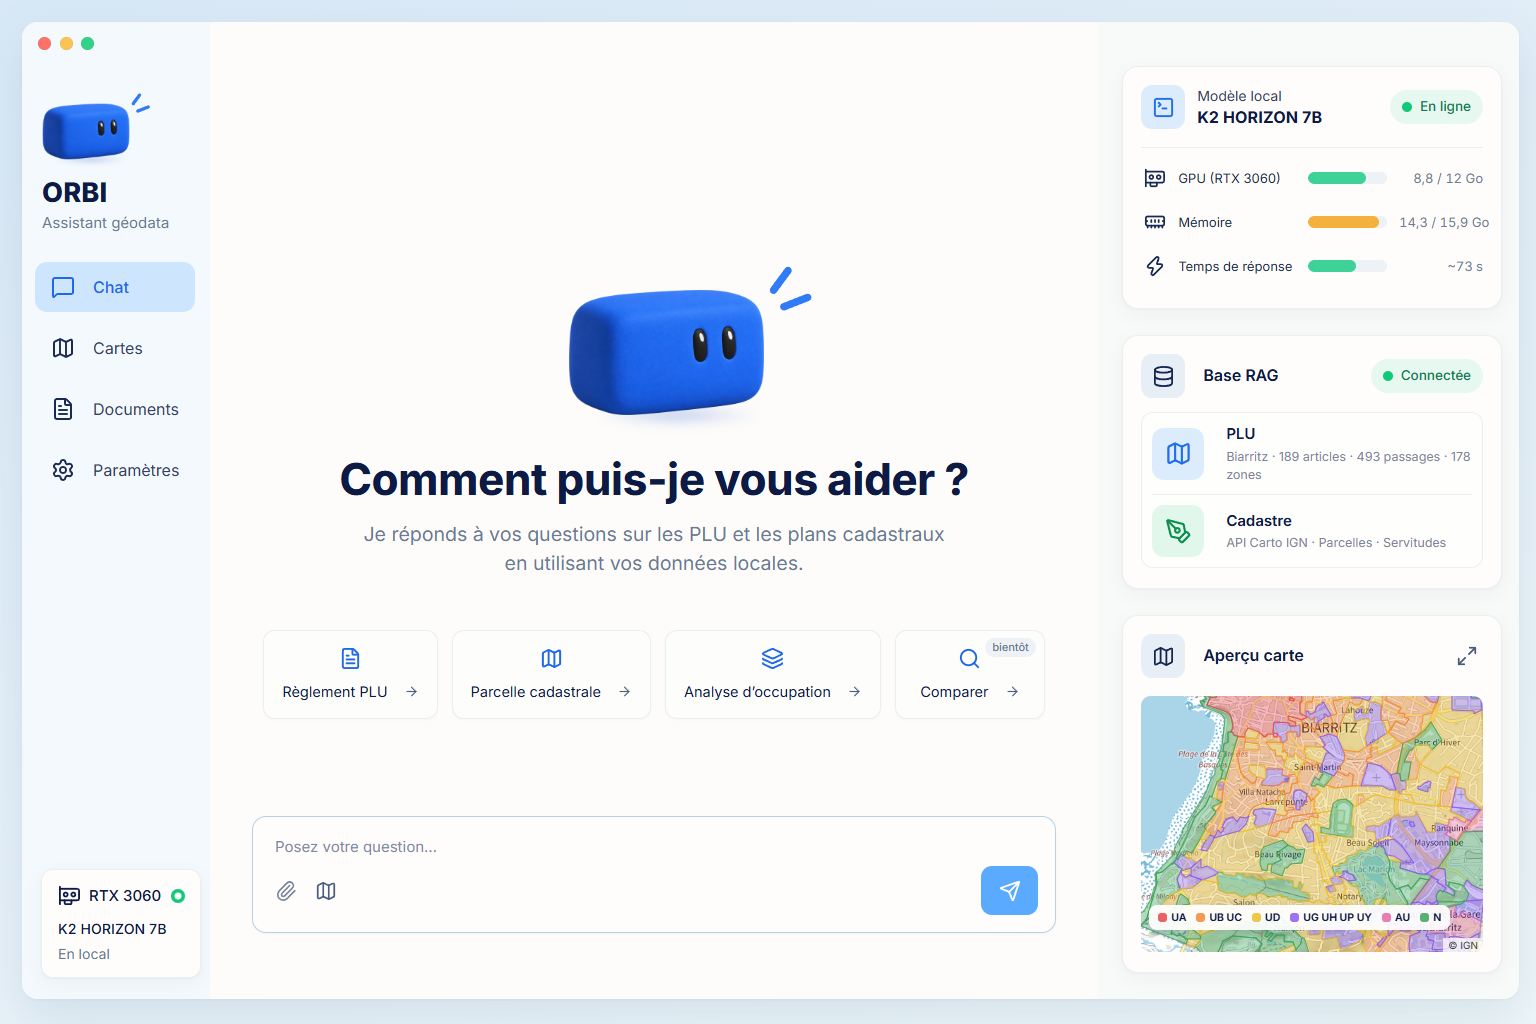
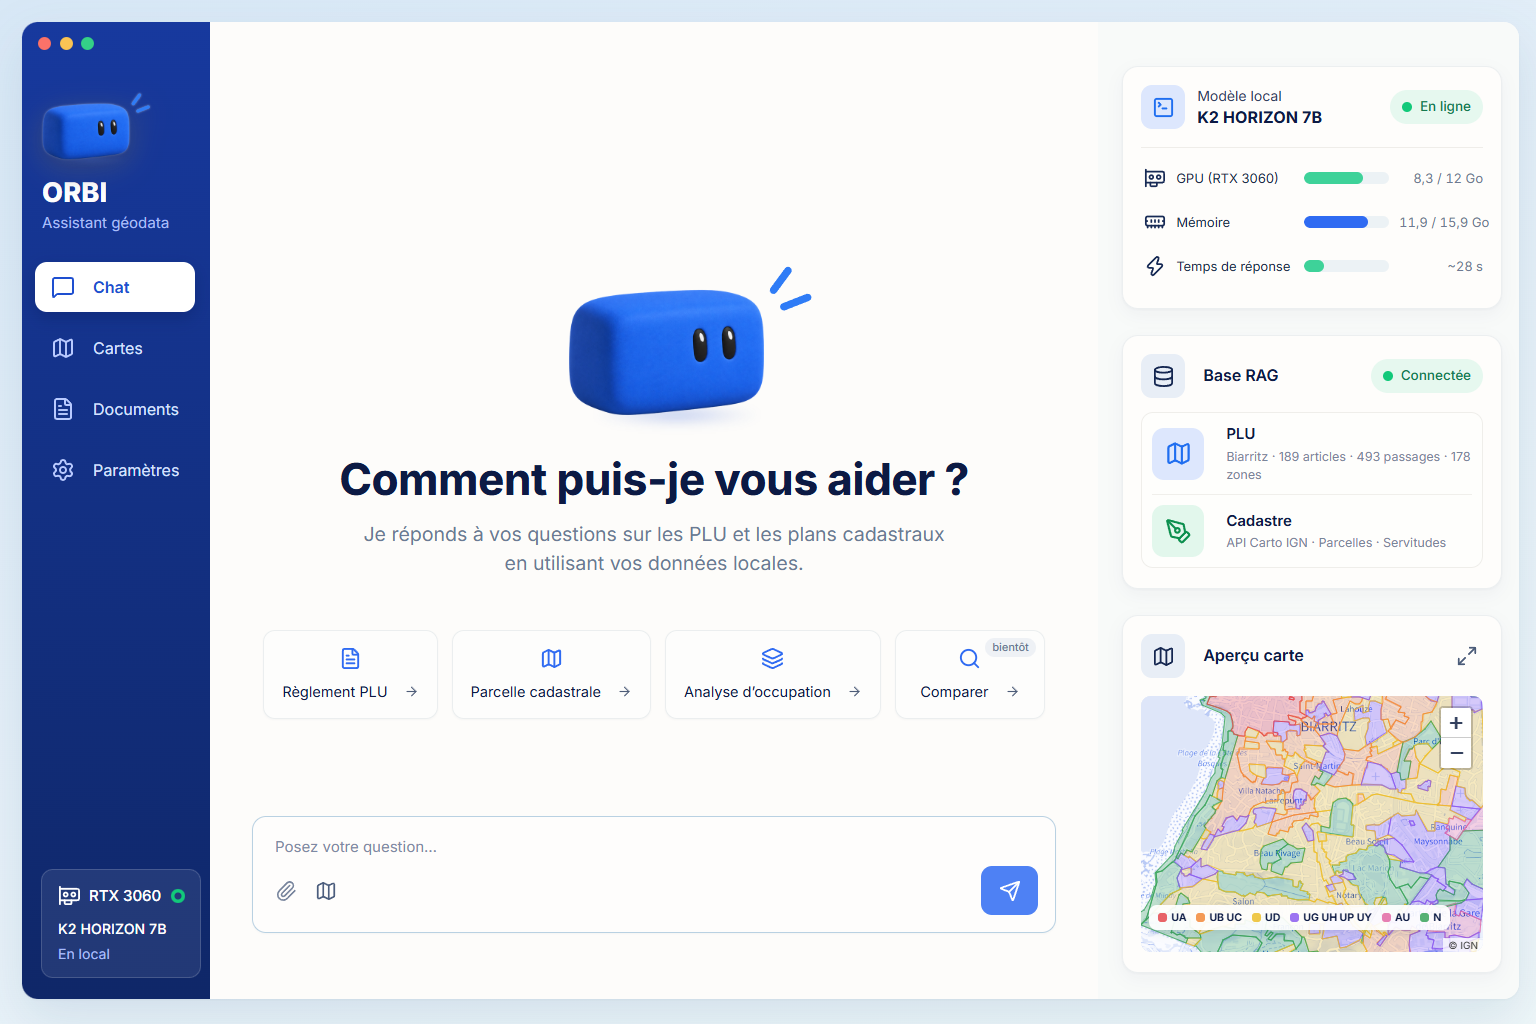
README refait : l'application en captures, le principe, les chiffres honnêtes, la technique
Captures neuves (accueil, Orbi qui travaille, réponse, fiche du terrain, conversation, carte) ; le film en tête.

diff --git a/README.md b/README.md
@@ -1,35 +1,41 @@
 # Orbi
 
-**L'assistant d'urbanisme qui lit le PLU, vérifie chaque citation, compare les chiffres et décide — 100 % local.**
-
-« Puis-je poser un abri de jardin de 8 m² à 50 cm du mur du voisin, au 5 impasse Monnier à Biarritz ? »
-Orbi retrouve la parcelle et sa zone, lit les articles du règlement qui s'appliquent, et répond : un verdict
-(*oui*, *oui sous conditions*, *non*, *impossible à dire*), les articles cités mot pour mot avec leur page, la démarche
-(déclaration préalable ou permis) et son délai. Quand une information manque, il le dit au lieu de deviner.
-
-> Projet en cours : la v1 couvre Biarritz. L'application de bureau (Electron, dossier `app/`) marche de bout en bout ; voir la feuille de route.
-
-## L'application
+**L'assistant d'urbanisme qui lit le PLU de Biarritz sur votre ordinateur.** Vous donnez une adresse et un projet ;
+Orbi répond *oui*, *non* ou *sous conditions*, cite la phrase exacte du règlement avec sa page, et donne la démarche
+(déclaration préalable ou permis) avec son délai. Le modèle de langage tourne en local, sur une carte graphique de 12 Go.
 
 ![Orbi répond à une vraie question](docs/captures/reponse.png)
 
-Une application de bureau (Electron, React, TypeScript) : on pose la question, Orbi montre où il en est pendant la minute
-d'analyse (six étapes qui se cochent), puis répond : le verdict, les règles citées mot à mot avec leur page, les points à
-vérifier, la démarche, et la parcelle sur la carte des zones du PLU. La colonne de droite montre la vraie machine : la
-carte graphique, la mémoire, le temps de réponse mesuré. Un « bonjour » reçoit une réponse de conversation en quelques
-secondes. Sans moteur local (sur GitHub Pages, par exemple), l'interface rejoue de vraies réponses enregistrées.
+> « Je veux construire un abri de jardin de 10 m² au 15 avenue de la Marne à Biarritz. Est-ce possible ? »
+> → parcelle AB 0073, zone UAs, site patrimonial remarquable → **oui, sous conditions**, avec l'article UA 7 cité mot
+> à mot (page 21), les points à vérifier et la démarche. En une minute, sur une RTX 3060.
 
-| Accueil | Orbi travaille |
+[![Le film de présentation (18 s)](brag-output/brag.jpg)](brag-output/brag.mp4)
+*Le film de présentation, 18 secondes : cliquer sur l'image.*
+
+## Ce que fait l'application
+
+| | |
 |---|---|
-| ![Accueil](docs/captures/accueil.png) | ![Les étapes en direct](docs/captures/travail.png) |
+| ![Accueil](docs/captures/accueil.png) | **Une vraie application de bureau** (Electron). À l'ouverture, elle démarre seule le serveur, la recherche et le modèle, et les arrête en se fermant. La colonne de droite montre la vraie machine : carte graphique, mémoire, temps de réponse mesuré. |
+| ![Orbi travaille](docs/captures/travail.png) | **On voit Orbi travailler.** Une analyse prend environ une minute : les six étapes se cochent en direct (lire la question, situer le terrain, chercher les articles, remplir la grille, vérifier chaque citation, décider). |
+| ![La fiche du terrain](docs/captures/fiche-terrain.png) | **Sans projet, la fiche du terrain.** « Que faut-il savoir sur cette adresse ? » : la zone, les servitudes, et une phrase exacte du règlement par thème (recul, voisins, emprise, hauteur, clôtures), composées par le code en quelques secondes. |
+| ![Une conversation](docs/captures/conversation.png) | **Une conversation, pas un formulaire.** Une relance (« et pour un abri de 10 m² ? ») garde l'adresse de la question précédente ; un « merci » reçoit une réponse d'Orbi, qui ne se répète pas. |
+| ![La carte des zones](docs/captures/cartes.png) | **La carte des zones du PLU**, sur un fond IGN aux couleurs d'Orbi : un clic donne la zone, son règlement et l'adresse du point. Le règlement complet se lit dans l'onglet Documents. |
+
+Sans moteur local (sur une page web, par exemple), l'interface rejoue huit vraies réponses enregistrées.
 
 ## Le principe : le modèle lit, le code décide
 
-Un modèle de langage local (K2 Horizon 7B) remplit une grille, une ligne par règle du règlement : la phrase exacte, ce
-qu'elle exige, les chiffres du projet. **Il ne donne aucun verdict.** Le code vérifie chaque ligne (la citation existe-t-elle
-mot pour mot ? la règle vise-t-elle cette parcelle ? les chiffres viennent-ils de la question ?), compare lui-même les
-nombres, puis une table de décision testée sans modèle tire le verdict, et le texte de la réponse est composé à partir du
-verdict : il ne peut plus le contredire.
+Un petit modèle de langage se trompe ; on ne lui confie donc pas le verdict. K2 Horizon 7B remplit une **grille** : une
+ligne par règle du règlement, avec la phrase exacte, ce qu'elle exige et les chiffres du projet. Puis le code reprend
+la main :
+
+1. chaque citation est **vérifiée mot à mot** dans le règlement (sinon la ligne ne compte ni pour ni contre) ;
+2. il vérifie que la règle vise bien cette parcelle (zone, secteur, type de projet) ;
+3. il **compare lui-même les chiffres** (distances, hauteurs, emprises) ;
+4. une **table de décision**, testée sans modèle, tire le verdict ;
+5. le texte de la réponse est composé à partir du verdict : il ne peut pas le contredire.
 
 ![La grille](docs/schemas/grille-v1.png)
 
@@ -38,44 +44,36 @@ verdict : il ne peut plus le contredire.
 Un agent ne se juge que sur des questions qu'il n'a jamais vues. Les bancs cachés sont écrits, étiquetés et **scellés
 par une empreinte SHA-256** (questions et code) avant le passage, puis passés une seule fois.
 
-| banc | questions | ancien agent | grille |
-|---|---|---|---|
-| mise au point (sert à corriger, donc flatteur) | 30 | 24 | 25 |
-| 1er banc caché | 20 | 12 | — |
-| 2e banc caché (2 octobre 2026) | 40 | 29 | 27 |
+| banc | questions | réponses justes |
+|---|---|---|
+| mise au point (sert à corriger, donc flatteur) | 30 | 25 |
+| 1er banc caché | 20 | 12 (ancien agent) |
+| 2e banc caché (2 octobre 2026) | 40 | **27** |
 
-Sur le 2e banc caché, la grille divise par deux les « oui » trop permissifs (9 → 4), mais elle n'est pas encore meilleure au
-total. Chaque échec est expliqué dans `labo/vitesse/PLAN-v4.md` : ce que le code reçoit du modèle est encore trop pauvre.
+Sur le 2e banc caché, 6 réponses sont à contresens. La suite (`labo/vitesse/PLAN-v4.md`) : comparer tous les chiffres
+dans le code, filtrer les règles hors sujet, une recette par type de projet, puis un 3e banc caché pour mesurer.
 
 ## La qualité
 
-**1 099 tests unitaires et de mutation** (quelques secondes, sans modèle), **3 rejeux d'intégration** (les passages
-enregistrés du banc, rejoués sans le modèle, doivent redonner exactement les mêmes réponses), **88 % de couverture**, et 75 tests de l'interface (Vitest).
-Les 7 défauts connus restants sont écrits comme des tests marqués `xfail`, avec leur explication : un défaut corrigé fait
-échouer son marqueur, on ne peut pas l'oublier.
+- **1 126 tests** côté Python (unitaires et de mutation : on casse le moteur de décision exprès pour vérifier que les
+  tests le voient), 88 % du code couvert, quelques secondes, sans modèle ni réseau ;
+- **3 rejeux d'intégration** : les passages enregistrés des bancs, rejoués sans le modèle, doivent redonner exactement
+  les mêmes réponses ;
+- **76 tests** de l'interface (Vitest) ;
+- les défauts connus sont écrits comme des tests marqués `xfail`, avec leur explication.
 
-## L'organisation
+![L'architecture](docs/schemas/orbi-architecture.png)
 
-```
-orbi/
-├─ src/orbi/
-│  ├─ chemins.py      tous les chemins du projet
-│  ├─ domaine/        la grille, le contrôle, la décision, la fiche, le verrou de zone, la démarche : sans réseau ni modèle
-│  ├─ reglement/      le règlement découpé, les citations exactes, la recherche (mots + sens), le savoir métier
-│  ├─ outils/         les API publiques (adresse, cadastre, Géoportail de l'Urbanisme), avec cache disque
-│  ├─ modele/         le client du modèle local et ses consignes
-│  ├─ agent/          l'orchestration : l'agent historique et la grille
-│  ├─ evaluation/     la notation des bancs, le rejeu sans modèle, le scellé, les pages de rapport
-│  └─ api/            le serveur local de l'application : l'état de la machine, les réponses en direct
-├─ tests/             unitaires, mutations (on casse le moteur exprès), intégration
-├─ bancs/             les questions (jeux/), les générateurs, les passages et leurs traces (resultats/)
-├─ donnees/           le règlement, l'index de recherche, les zones du PLU, le cache des API
-├─ app/               l'application de bureau : Electron (electron/), l'interface React (src/), ses tests (tests/)
-├─ services/          le serveur du modèle (k2/) et le serveur d'embeddings (embeddings/)
-├─ docs/              les schémas Excalidraw (schemas/) et leur générateur (outils/), les décisions d'architecture
-├─ labo/              les expériences en cours (vitesse : citations par numéro de phrase)
-└─ scripts/           la préparation des données
-```
+## La technique
+
+| | |
+|---|---|
+| Modèle | K2 Horizon 7B en local (Transformers, 4 bits), bge-m3 pour la recherche par le sens |
+| Agent | Python : recherche hybride (BM25 + embeddings), grille, contrôle, table de décision |
+| Données | règlement du PLU de Biarritz découpé et indexé ; API publiques sans clé (Géoplateforme, API Carto IGN, Géoportail de l'Urbanisme) |
+| Serveur | FastAPI, réponses en direct (Server-Sent Events) |
+| Application | Electron, React, TypeScript, Vite, Leaflet ; Vitest et Testing Library |
+| Mesure | bancs scellés SHA-256, rejeu des traces, tests de mutation |
 
 ## Lancer
 
@@ -83,31 +81,45 @@ Prérequis : Python 3.12 et [uv](https://docs.astral.sh/uv/), Node 22, une carte
 
 ```bash
 uv sync --group dev                         # le paquet orbi et les outils de test
-uv run pytest                               # les tests unitaires et de mutation (sans modèle, quelques secondes)
+uv run pytest                               # les tests (sans modèle, quelques secondes)
 uv run pytest -m integration                # le rejeu des traces enregistrées (serveur d'embeddings requis)
-uv run orbi-banc --grille                   # le banc de mise au point, avec le modèle
-uv run orbi-serveur                         # le serveur local de l'application : http://127.0.0.1:4770 (API : /api/docs)
-node scripts/installer-app.mjs              # les dépendances de l'application de bureau (caches sur D:/tools s'il existe)
-cd app && npm run dev                       # l'application : elle démarre le serveur, la recherche et le modèle, et les arrête en se fermant
+node scripts/installer-app.mjs              # les dépendances de l'application
+cd app && npm run dev                       # l'application : elle démarre le serveur, la recherche et le modèle
 cd app && npm test                          # les tests de l'interface
-cd app && npm run build:web                 # le site de démonstration (réponses enregistrées), pour GitHub Pages
+cd app && npm run build:web                 # le site de démonstration (réponses enregistrées)
 ```
 
-Le serveur local répond en direct : chaque étape de l'agent part vers l'application au moment où elle se termine
-(Server-Sent Events), puis le lieu (parcelle, zone, servitudes), puis la réponse. Une vraie question, jamais vue :
-« Je veux construire une véranda de 15 m² sur ma maison au 10 rue Gambetta à Biarritz » → parcelle BC 0074, zone UAs,
-site patrimonial remarquable, *oui sous conditions*, en 69 secondes sur une RTX 3060.
+Le modèle et la recherche se lancent depuis `services/k2` et `services/embeddings`. Si une machine les fait tourner
+ailleurs, copier `services.exemple.json` en `services.local.json` (hors dépôt) et y indiquer leurs dossiers.
+Journaux : `conversations/journaux/`. Le serveur seul : `uv run orbi-serveur` (http://127.0.0.1:4770, API : `/api/docs`).
 
-Les deux services locaux : `services/k2/serveur_k2.py` (port 11500) et `services/embeddings/emb_serveur.mjs` (port 11600).
-L'application les lance depuis ces dossiers ; si ta machine les fait tourner ailleurs, copie `services.exemple.json` en
-`services.local.json` (hors dépôt) et indique-y leurs dossiers et variables d'environnement. Journaux : `conversations/journaux/`.
+## L'organisation
+
+```
+orbi/
+├─ app/               l'application de bureau : Electron (electron/), l'interface React (src/), ses tests (tests/)
+├─ src/orbi/
+│  ├─ domaine/        la grille, le contrôle, la décision, la fiche, la fiche du terrain, le verrou de zone, la démarche
+│  ├─ reglement/      le règlement découpé, les citations exactes, la recherche (mots + sens), le savoir métier
+│  ├─ outils/         les API publiques (adresse, cadastre, Géoportail de l'Urbanisme), avec cache disque
+│  ├─ modele/         le client du modèle local et ses consignes
+│  ├─ agent/          l'orchestration : l'agent historique et la grille
+│  ├─ api/            le serveur de l'application : état de la machine, réponses en direct, conversation
+│  └─ evaluation/     la notation des bancs, le rejeu sans modèle, le scellé, les pages de rapport
+├─ tests/             unitaires, mutations, intégration
+├─ bancs/             les questions (jeux/), leurs générateurs, les passages et leurs traces (resultats/)
+├─ donnees/           le règlement, l'index de recherche, les zones du PLU, le cache des API
+├─ services/          le serveur du modèle (k2/) et le serveur d'embeddings (embeddings/)
+├─ docs/              les schémas Excalidraw, les captures, les décisions d'architecture
+├─ brag-output/       le film de présentation et ses sources (rendu image par image, bande-son)
+└─ labo/              les expériences en cours
+```
 
 ## Feuille de route
 
-1. **Fondations** — dossiers, tests, documentation *(fait)*
-2. **Fiabilité** — outils locaux, moteur de chiffres dans le code, filtres d'applicabilité, 3e banc caché
-3. **Le chatbot** — application Electron, réponses en flux, carte de la parcelle, questions de relance *(en cours)*
-4. **Le design** — Orbi, la mascotte, et une direction artistique tirée du sujet
-5. **La faisabilité** — plusieurs parcelles : ce qu'on peut y construire, comparé, avec un plan
-6. **Apprendre des retours** — avis des utilisateurs relus, devenus cas de test et règles
-7. **La vitrine** — page portfolio et film de présentation
+1. **Fondations** : dossiers, tests, documentation *(fait)*
+2. **L'application** : Electron, réponses en direct, carte, conversation, fiche du terrain *(fait)*
+3. **Fiabilité** : chiffres comparés par le code, filtres d'applicabilité, recettes par projet, 3e banc caché *(suivant)*
+4. **Vitesse** : moins d'une minute par analyse
+5. **La faisabilité** : plusieurs parcelles, ce qu'on peut y construire, comparé, avec un plan
+6. **Apprendre des retours** : les avis des utilisateurs, relus, deviennent des cas de test puis des règles
